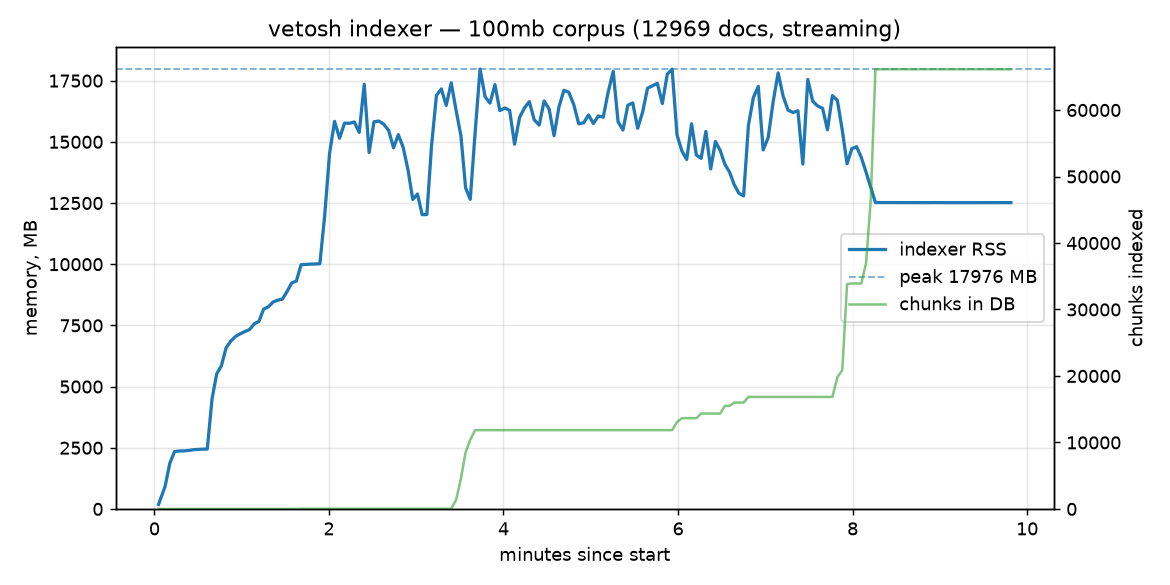
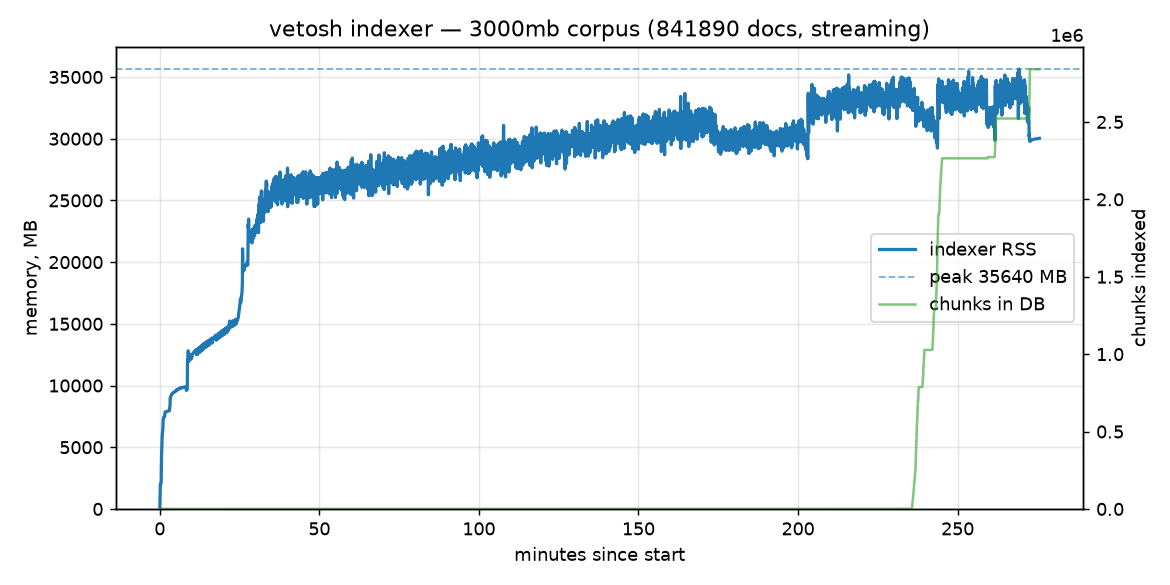
run benchmarks up to 3GB, fix problems along the way

diff --git a/benchmarks/realtime-data-indexing/run_bench.py b/benchmarks/realtime-data-indexing/run_bench.py
@@ -29,11 +29,13 @@ SAMPLE_INTERVAL = 3.0
 # (Chunk commits are bursty — the embedding backlog of a large commit can
 # delay the next flush arbitrarily — but during that backlog the CPU burns
 # dozens of cores, so the combination is unambiguous.)
-STABLE_WINDOW = 90.0
+STABLE_WINDOW = 180.0
 # Below this sustained CPU rate the indexer counts as idle. Must sit between
-# the multi-worker idle hum (~0.2 cores per worker process) and the embedding
-# phase (tens of cores).
-IDLE_CORES = 6.0
+# the streaming re-scan hum (the fs connector continuously re-stats every
+# file: ~5 cores per 240k files) and the embedding phase (50-90 cores).
+# A false "idle" is harmless while chunks are still growing — termination
+# requires BOTH conditions — so this errs high.
+IDLE_CORES = 30.0
 
 
 def _compose(*args: str, size: str, capture: bool = False) -> subprocess.CompletedProcess:
@@ -112,18 +114,25 @@ def _wait_http(url: str, timeout: float, message: str) -> None:
     raise TimeoutError(message)
 
 
-def _accuracy(base: str, questions: list[dict], k: int) -> tuple[int, int]:
+def _accuracy(
+    base: str, questions: list[dict], k: int
+) -> tuple[int, int, list[dict]]:
     hits = 0
+    misses: list[dict] = []
     for q in questions:
         resp = httpx.post(
             f"{base}/api/v1/retrieve", json={"query": q["query"], "k": k}, timeout=120
         )
         resp.raise_for_status()
-        paths = {
-            Path(r["metadata"].get("path", "")).name for r in resp.json()["results"]
-        }
-        hits += q["expected_file"] in paths
-    return hits, len(questions)
+        results = resp.json()["results"]
+        paths = [Path(r["metadata"].get("path", "")).name for r in results]
+        if q["expected_file"] in paths:
+            hits += 1
+        else:
+            misses.append(
+                {"expected": q["expected_file"], "query": q["query"][:120], "got": paths}
+            )
+    return hits, len(questions), misses
 
 
 def main() -> None:
@@ -147,6 +156,10 @@ def main() -> None:
     os.environ["BENCH_QDRANT_PORT"] = str(args.qdrant_port)
 
     print(f"== dataset {args.size}: {docs_count} files, {len(questions)} questions")
+    # Always start from a clean slate — leftovers from an interrupted run
+    # (a pre-filled Qdrant, an old indexer) would silently corrupt every
+    # measurement.
+    _compose("down", "-v", size=args.size)
     _compose("up", "-d", "qdrant", size=args.size)
     _wait_http(
         f"http://127.0.0.1:{args.qdrant_port}/readyz", 120, "qdrant not ready"
@@ -169,6 +182,10 @@ def main() -> None:
     # "indexing finished" is detected by the chunk counter going stable: it
     # grew at least once and has not changed for STABLE_WINDOW seconds.
     # Indexing time = the moment of the last observed increase.
+    # The CSV is appended live, so an interrupted run keeps its memory curve.
+    csv_path = results_dir / f"{args.size}-memory.csv"
+    csv_path.write_text("elapsed_s,rss_mb,hwm_mb,chunks\n")
+
     samples: list[tuple[float, int, int, int]] = []  # (s, rss_kb, hwm_kb, chunks)
     last_count = 0
     last_change = started
@@ -193,9 +210,13 @@ def main() -> None:
                     last_busy = now
             prev_cpu, prev_time, cpu_seconds = cpu, now, cpu
         elapsed = now - started
-        samples.append(
-            (elapsed, status.get("VmRSS", 0), status.get("VmHWM", 0), last_count)
-        )
+        sample = (elapsed, status.get("VmRSS", 0), status.get("VmHWM", 0), last_count)
+        samples.append(sample)
+        with csv_path.open("a") as fh:
+            fh.write(
+                f"{sample[0]:.1f},{sample[1] / 1024:.1f},"
+                f"{sample[2] / 1024:.1f},{sample[3]}\n"
+            )
         print(
             f"\r   t={elapsed:7.0f}s  rss={status.get('VmRSS', 0) / 1024:7.1f} MB  "
             f"peak={status.get('VmHWM', 0) / 1024:7.1f} MB  chunks={last_count}",
@@ -203,7 +224,10 @@ def main() -> None:
             flush=True,
         )
         if (
-            last_count > 0
+            # Every document yields at least one chunk, so completion is
+            # impossible before the counter reaches the document count —
+            # this cleanly excludes the low-CPU initial-scan phase.
+            last_count >= docs_count
             and now - last_change >= STABLE_WINDOW
             and now - last_busy >= STABLE_WINDOW
         ):
@@ -222,7 +246,7 @@ def main() -> None:
     db_bytes = int(du.stdout.split()[0]) if du.returncode == 0 and du.stdout else None
 
     stats = httpx.get(f"{base}/api/v1/stats", timeout=60).json()
-    hits, total = _accuracy(base, questions, args.top_k)
+    hits, total, misses = _accuracy(base, questions, args.top_k)
 
     # Peak = highest sampled TOTAL RSS across the container's processes (the
     # summed VmHWM in the CSV is only an upper bound for multi-process runs).
@@ -248,15 +272,10 @@ def main() -> None:
         "embedder": "sentence-transformers/all-MiniLM-L6-v2 (local, 384 dims)",
         # Standard text page ≈ 2000 characters (≈ bytes for English text).
         "approx_text_pages": int(size_mb * 1024 * 1024 / 2000),
+        # Which questions missed top-k, with what came back instead.
+        "accuracy_misses": misses,
     }
     (results_dir / f"{args.size}-summary.json").write_text(json.dumps(summary, indent=2))
-    csv_path = results_dir / f"{args.size}-memory.csv"
-    csv_path.write_text(
-        "elapsed_s,rss_mb,hwm_mb,chunks\n"
-        + "\n".join(
-            f"{t:.1f},{r / 1024:.1f},{h / 1024:.1f},{c}" for t, r, h, c in samples
-        )
-    )
 
     import matplotlib
 

diff --git a/vetosh/indexer/cache.py b/vetosh/indexer/cache.py
@@ -92,7 +92,16 @@ class ParseCache:
         # check_same_thread=False + a lock: the parse UDF and the subscribe
         # eviction callback may run on different threads.
         self._lock = threading.Lock()
-        self._conn = sqlite3.connect(self.db_path, check_same_thread=False)
+        # Multi-worker indexing (indexer.workers > 1) means several PROCESSES
+        # share this file. WAL lets readers proceed alongside the writer, and
+        # a generous busy timeout rides out write bursts — without these,
+        # large corpora die with "database is locked".
+        self._conn = sqlite3.connect(
+            self.db_path, check_same_thread=False, timeout=60.0
+        )
+        self._conn.execute("PRAGMA journal_mode=WAL")
+        self._conn.execute("PRAGMA synchronous=NORMAL")
+        self._conn.execute("PRAGMA busy_timeout=60000")
         self._conn.execute(
             "CREATE TABLE IF NOT EXISTS parse_cache ("
             "  key TEXT PRIMARY KEY,"

diff --git a/docs/ROADMAP.md b/docs/ROADMAP.md
@@ -1,0 +1,147 @@
+# vetosh — status & roadmap
+
+*Last updated: 2026-07-02.*
+
+## Where we are
+
+vetosh is a no-code RAG stack built as a **showcase of Pathway connectors**:
+one YAML file turns Pathway's native `pw.io.*` output connectors + `xpacks.llm`
+parsers/splitters/embedders into a live document-indexing pipeline, a retrieval
+API and a chat UI — with zero application code written by the user.
+
+**Vector-DB backends (8):** DuckDB (embedded, zero-setup default), pgvector,
+Milvus, Qdrant, ChromaDB, Weaviate, Pinecone, MongoDB Atlas Vector Search.
+All written through native Pathway connectors in snapshot mode — source
+adds/edits/deletes become real upserts/deletes in the store.
+
+**Embedders (5 families, both sides):** OpenAI, LiteLLM (≈100 providers),
+SentenceTransformers (fully local), Gemini, Bedrock.
+
+**Modalities today:** text (`.txt`/`.md`), PDF (pypdf), and everything
+`unstructured` handles (DOCX, PPTX, XLSX, HTML, EML, CSV, RTF, EPUB, …).
+Available in the xpack but not yet wired in: images/slides via vision LLMs
+(`DoclingParser`, `ImageParser`, `SlideParser`), OCR (`PaddleOCRParser`),
+audio via Whisper (`AudioParser`). No video.
+
+**The differentiator**: *continuous incremental sync with correct deletion
+semantics into an external vector DB of your choice*. Competing tools re-index
+on a schedule or on upload; vetosh watches sources and propagates a file edit
+or removal to the vector DB within seconds, without re-embedding unchanged
+content (Pathway persistence + embedder cache). That story is exactly one YAML
+file — because the machinery is Pathway itself.
+
+## Competitive landscape (as of 2026-07)
+
+| Tool | Stars | External vector DBs | Continuous sync incl. deletes |
+|---|---|---|---|
+| **vetosh** | — | **8, native connectors** | **yes — streaming watch, real deletes** |
+| Dify | 147k | ~20, but captive KB storage | no (manual / triggered re-sync) |
+| RAGFlow | 84k | none (bundled ES/Infinity) | no (batch upload) |
+| AnythingLLM | 62k | ~10 | partial beta: per-file hourly re-embed, desktop-only |
+| PrivateGPT | 57k | ~5 | no (bulk ingest; dormant) |
+| LlamaIndex OSS | 51k | 40+ | deletes only on manual pipeline re-run |
+| Onyx (ex-Danswer) | 31k | none (captive Vespa→OpenSearch) | closest: 30-min polling + periodic pruning |
+| Haystack | 26k | ~27 | no (DIY pipelines, batch) |
+| Airbyte vector dest. | 22k | ~7 | scheduled; deletes only from CDC DB sources |
+| Unstructured | 15k | ~20 | scheduled incremental; no delete propagation |
+| R2R | 8k | 1 (pgvector) | no (API-driven) |
+| LlamaCloud (SaaS) | — | 7 sinks | near-match, but proprietary/managed |
+
+The open slot vetosh occupies: **OSS, watches folders/Drive continuously,
+propagates adds+edits+deletes in seconds, and writes into *your* vector DB**
+— either captive-index tools (Onyx, RAGFlow, Dify) or batch external-DB
+writers (Airbyte, Unstructured, LlamaIndex) cover only one half each. The
+pitch to lead with: *"the only open-source tool where deleting a file
+actually deletes its vectors — in any of 8 databases — live."*
+
+**Known constraints:**
+
+- The new connectors (duckdb/qdrant/chroma/weaviate/pinecone) need a Pathway
+  release that includes them; today vetosh runs against the develop tree.
+- DuckDB is single-writer: a *streaming* indexer excludes a concurrently
+  serving reader process — use `mode: static` with DuckDB, or a client-server
+  backend for live sync.
+- pgvector/Milvus/Chroma/Weaviate/Pinecone targets must be pre-created by the
+  user (dimension mismatch surfaces only at write time).
+
+---
+
+## Category 1 — before showing to business colleagues
+
+*Goal: a flawless 5-minute "look what falls out of Pathway connectors for
+free" demo. Polish the first-run experience; make the live-sync magic visible.*
+
+1. ~~**`vetosh up`**~~ — DONE: a dumb supervisor that spawns `vetosh indexer`
+   and `vetosh server` as children simultaneously (uniform streaming for all
+   backends, no refresh loops) and tears both down on exit; if the indexer
+   finishes (static sources) the server keeps serving. DuckDB + streaming
+   currently warns about the single-writer lock — resolves when Pathway ships
+   `detach_between_batches` for `pw.io.duckdb.write` (requested; the vetosh
+   accessor already retries through brief lock windows).
+2. **Bundled demo corpus + script** (`vetosh demo`): sample docs, a scripted
+   moment where a file is edited/deleted and the chat answer visibly changes —
+   that moment *is* the technology pitch.
+3. **Fully local no-key path as the wizard default**: DuckDB +
+   `sentence_transformer` — nothing to sign up for except the free Pathway
+   license.
+4. **docker-compose for the live-sync demo** (qdrant + vetosh services), so
+   the "edit a file, watch the answer change" scene runs on a client-server
+   backend.
+5. **Re-record the README GIF** for the new flow (DuckDB default, new wizard).
+6. **Friendly failure modes**: missing license key, unreachable DB, embedder
+   dimension mismatch — each should produce one clear sentence, not a stack
+   trace. Add `vetosh doctor` (validate config, ping DB, check embedder
+   dimension vs. index).
+7. **Index statistics endpoint** (`/stats`: chunk/document counts, last update
+   time) surfaced in the frontend — makes liveness visible.
+8. **Smoke-test the demo path in CI** so the show never breaks: quickstart →
+   index → retrieve on DuckDB.
+
+## Category 2 — before showing to the external world
+
+*Goal: credibility. Anyone can install it, run it against their own stack, and
+nothing embarrasses us.*
+
+1. **Depend on a released Pathway** that ships the new connectors (today:
+   develop build). Blocks everything — PyPI users cannot run the new backends.
+2. **Integration-test matrix for all 8 backends** (docker-compose services in
+   CI; Pinecone Local for pinecone; Atlas local dev image for mongodb).
+3. **PyPI release automation** + versioning + changelog; `pip install vetosh`
+   must just work.
+4. **Server hardening**: optional API-key auth, CORS config, rate limiting,
+   request size limits, timeouts.
+5. **Auto-create targets where possible**: pgvector table (dimension from
+   `BaseEmbedder.get_embedding_dimension()`), Milvus collection, Pinecone
+   index — remove the biggest first-run trap (config promises
+   `embedding_dimension` but nothing consumes it today).
+6. **Observability**: structured logs, `/metrics` (Prometheus), indexing lag
+   gauge.
+7. **Streaming `/rag` responses** (SSE) in server + frontend.
+8. **More modalities via config**: `parser:` section exposing Docling
+   (PDF+tables+images), ImageParser, AudioParser, PaddleOCR from the xpack.
+9. **S3 / SharePoint / pyfilesystem sources** — `only_metadata` support just
+   landed in Pathway develop (#10483); wire them into `sources:`.
+10. **Optional reranker** (xpack `rerankers`) and hybrid retrieval where the
+    backend supports it.
+11. **Docs site**: per-backend tutorials, troubleshooting, architecture page;
+    CONTRIBUTING + issue templates; choose and state the OSS license clearly.
+12. **CI quality gates**: ruff, mypy, py3.10–3.13 matrix.
+
+## Category 3 — after the public prototype
+
+1. **MCP server mode** (`pathway.xpacks.llm.mcp_server`): "chat with your
+   docs from Claude/IDE" — big reach, low effort.
+2. **Adaptive RAG** (geometric context growth, from
+   `AdaptiveRAGQuestionAnswerer`) as an opt-in `/rag` strategy.
+3. **Evaluation harness** (RAGAS or similar) + per-backend latency/recall
+   benchmarks; publish numbers.
+4. **LEANN backend** once its reader path matures (today: write-only,
+   full rebuild per commit).
+5. **DuckDB ANN**: upstream a `FLOAT[n]` fixed-size array option in
+   `pw.io.duckdb.write` so the VSS/HNSW index applies; today retrieval is a
+   vectorized in-DB scan (fine at demo scale).
+6. **Multi-collection / multi-tenant** serving; per-user corpora.
+7. **Frontend growth**: chat history, source previews, auth.
+8. **Kubernetes/Helm deployment** recipes; horizontal-scale guide.
+9. **Video modality** (frame sampling + vision parsing) — no xpack support
+   yet; needs design.

diff --git a/README.md b/README.md
@@ -107,15 +107,22 @@ see [benchmarks/realtime-data-indexing](benchmarks/realtime-data-indexing):
 
 | corpus | ≈ pages | docs | chunks | indexing time | peak RSS | in Qdrant | retrieval accuracy |
 |---|---|---|---|---|---|---|---|
-| 100 MB | 52 000 | 12 969 | 66 136 | 8.3 min | 18.0 GB* | 629 MB | 5/5 |
+| 100 MB | 52 000 | 12 969 | 66 136 | 8.3 min | 18.0 GB* | 0.6 GB | 5/5 |
+| 1 GB | 524 000 | 240 516 | 836 595 | 88 min | 23.6 GB* | 2.7 GB | 16/20 |
+| 3 GB | 1 573 000 | 841 890 | 2 703 850 | 4.5 h | 35.6 GB* | 7.6 GB | 17/20 |
 
-\* 8 Pathway worker processes × ~1.5–2 GB each: a local sentence-transformers
-stack (PyTorch runtime + MiniLM weights + inference buffers) per worker — a
-**constant per worker, independent of corpus size**. Fewer workers or a
-smaller embedder batch size shrink it roughly linearly.
+\* **A 30× larger corpus costs 30× the time (throughput is flat at
+~11–12 MB/min) but only ~2× the peak memory.** The floor is 8 Pathway worker
+processes × ~1.5–2 GB of local sentence-transformers stack each (PyTorch
+runtime + model + inference buffers) — set by the worker count, not by data
+volume. The residual growth comes from per-file watch metadata and from the
+in-flight batch buffer during the *initial bulk backfill* (the whole
+pre-existing corpus lands in a few huge commits); in steady-state watching,
+where documents arrive over time, that buffer stays small. Document contents
+never accumulate in the pipeline (`only_metadata`).
 
 <p align="center">
-  <img src="docs/assets/bench-memory.png" alt="vetosh indexer memory over time while indexing: RSS stays in a flat band while the chunk counter climbs to 66k" width="100%">
+  <img src="docs/assets/bench-memory.png" alt="vetosh indexer memory over time while indexing 3GB / 842k documents: RSS stays within a 26-35GB band for the whole 4.5h run while the chunk counter climbs to 2.7M" width="100%">
 </p>
 
 Setup: 96-core CPU host, streaming mode, 8 worker processes